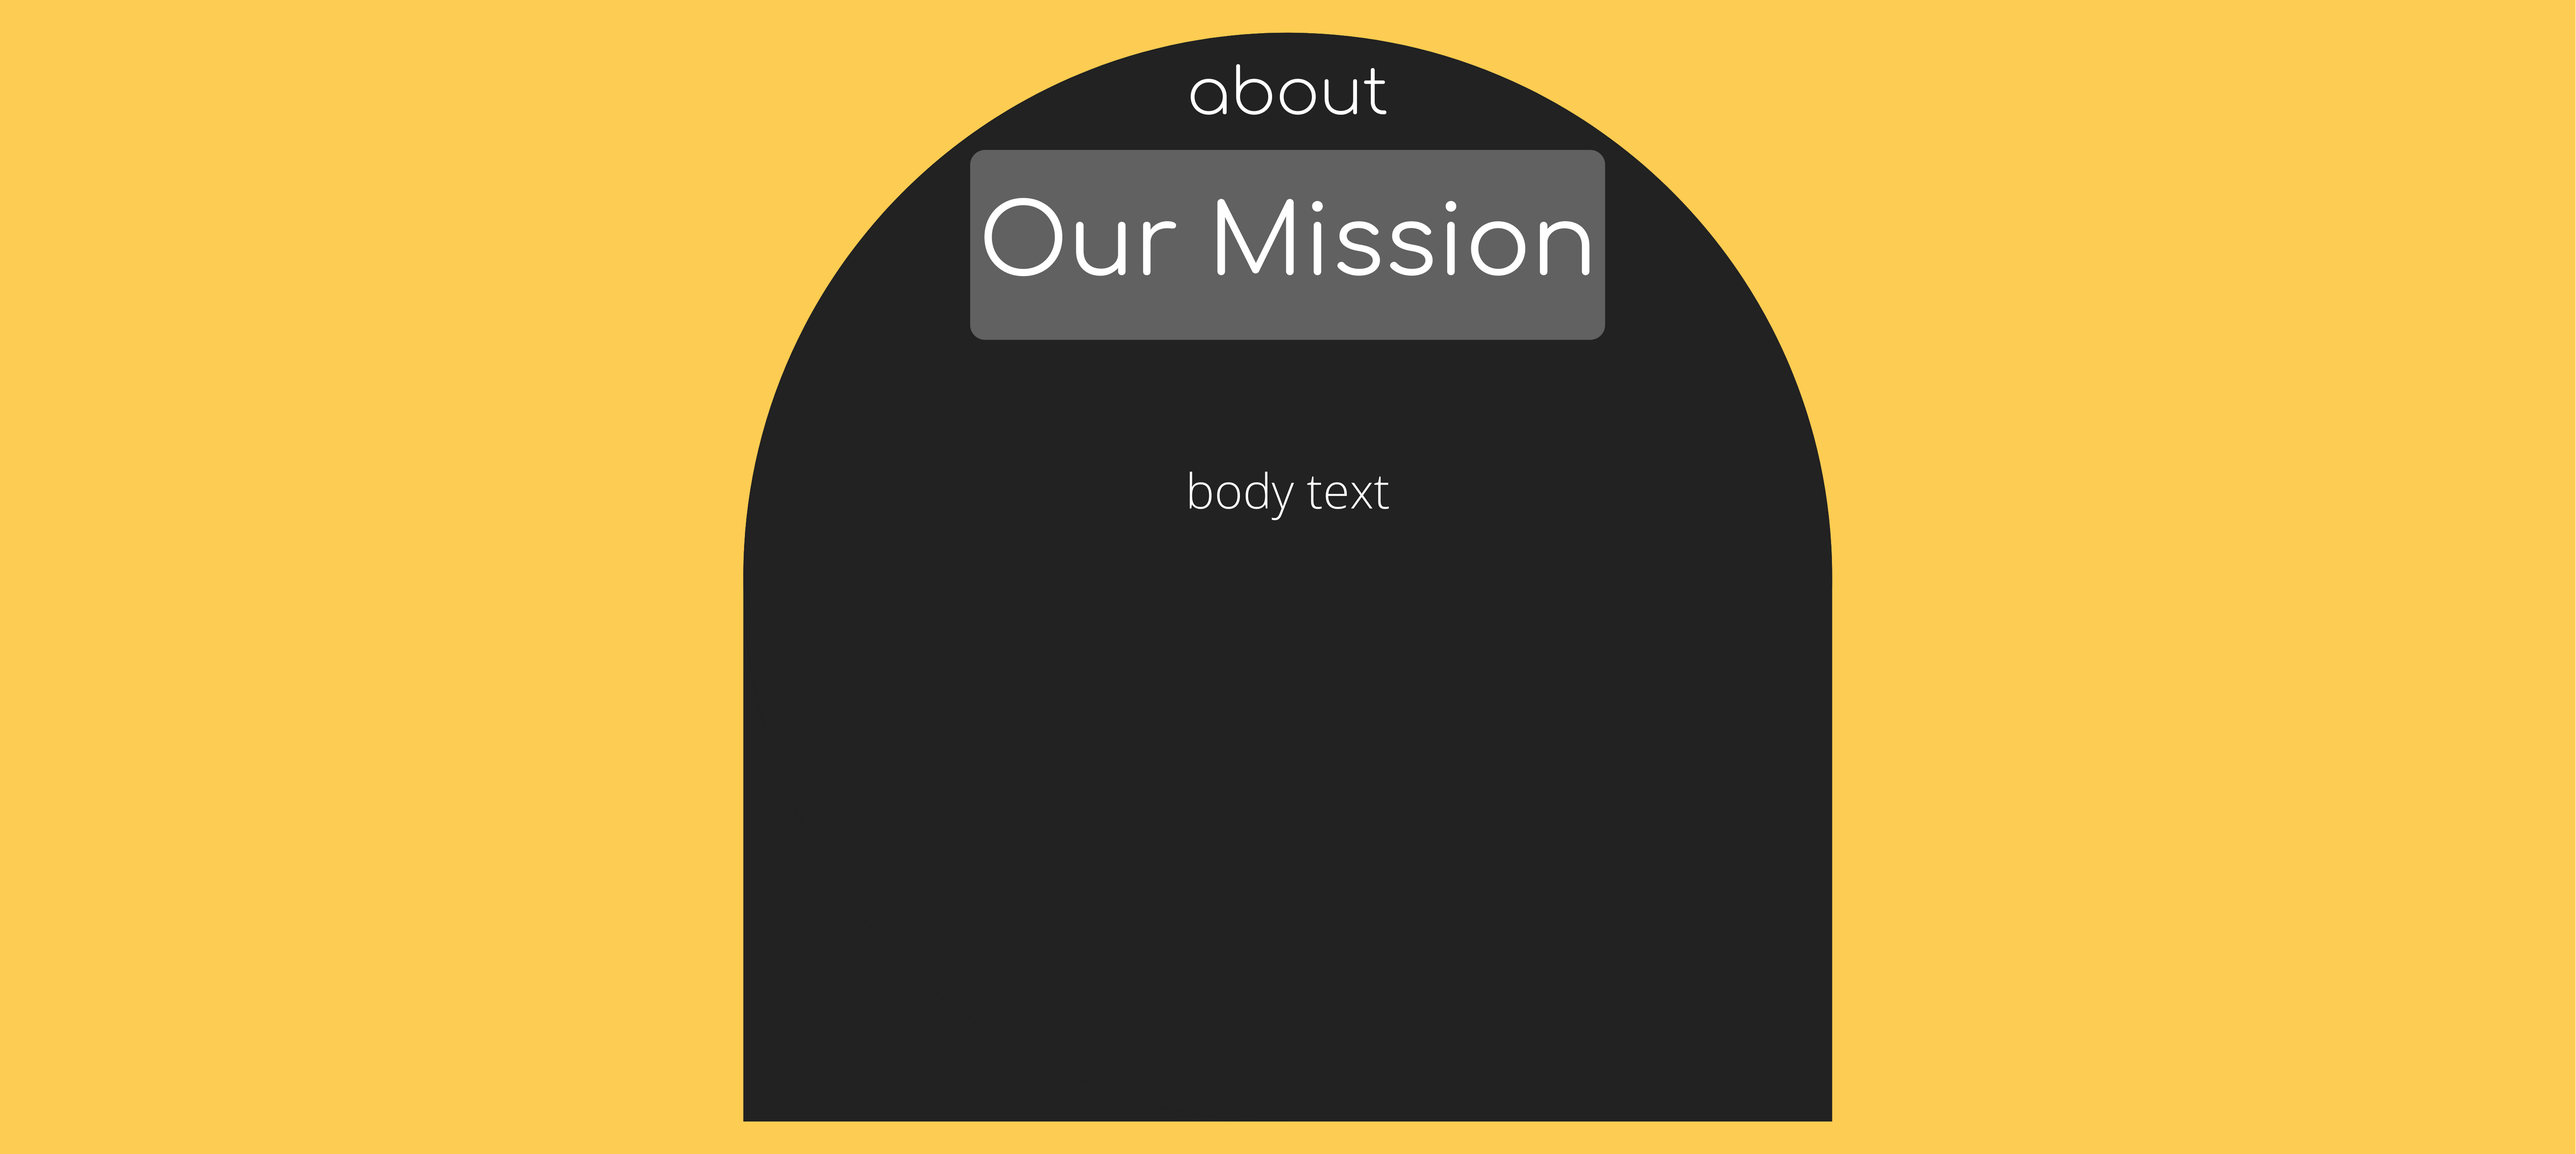
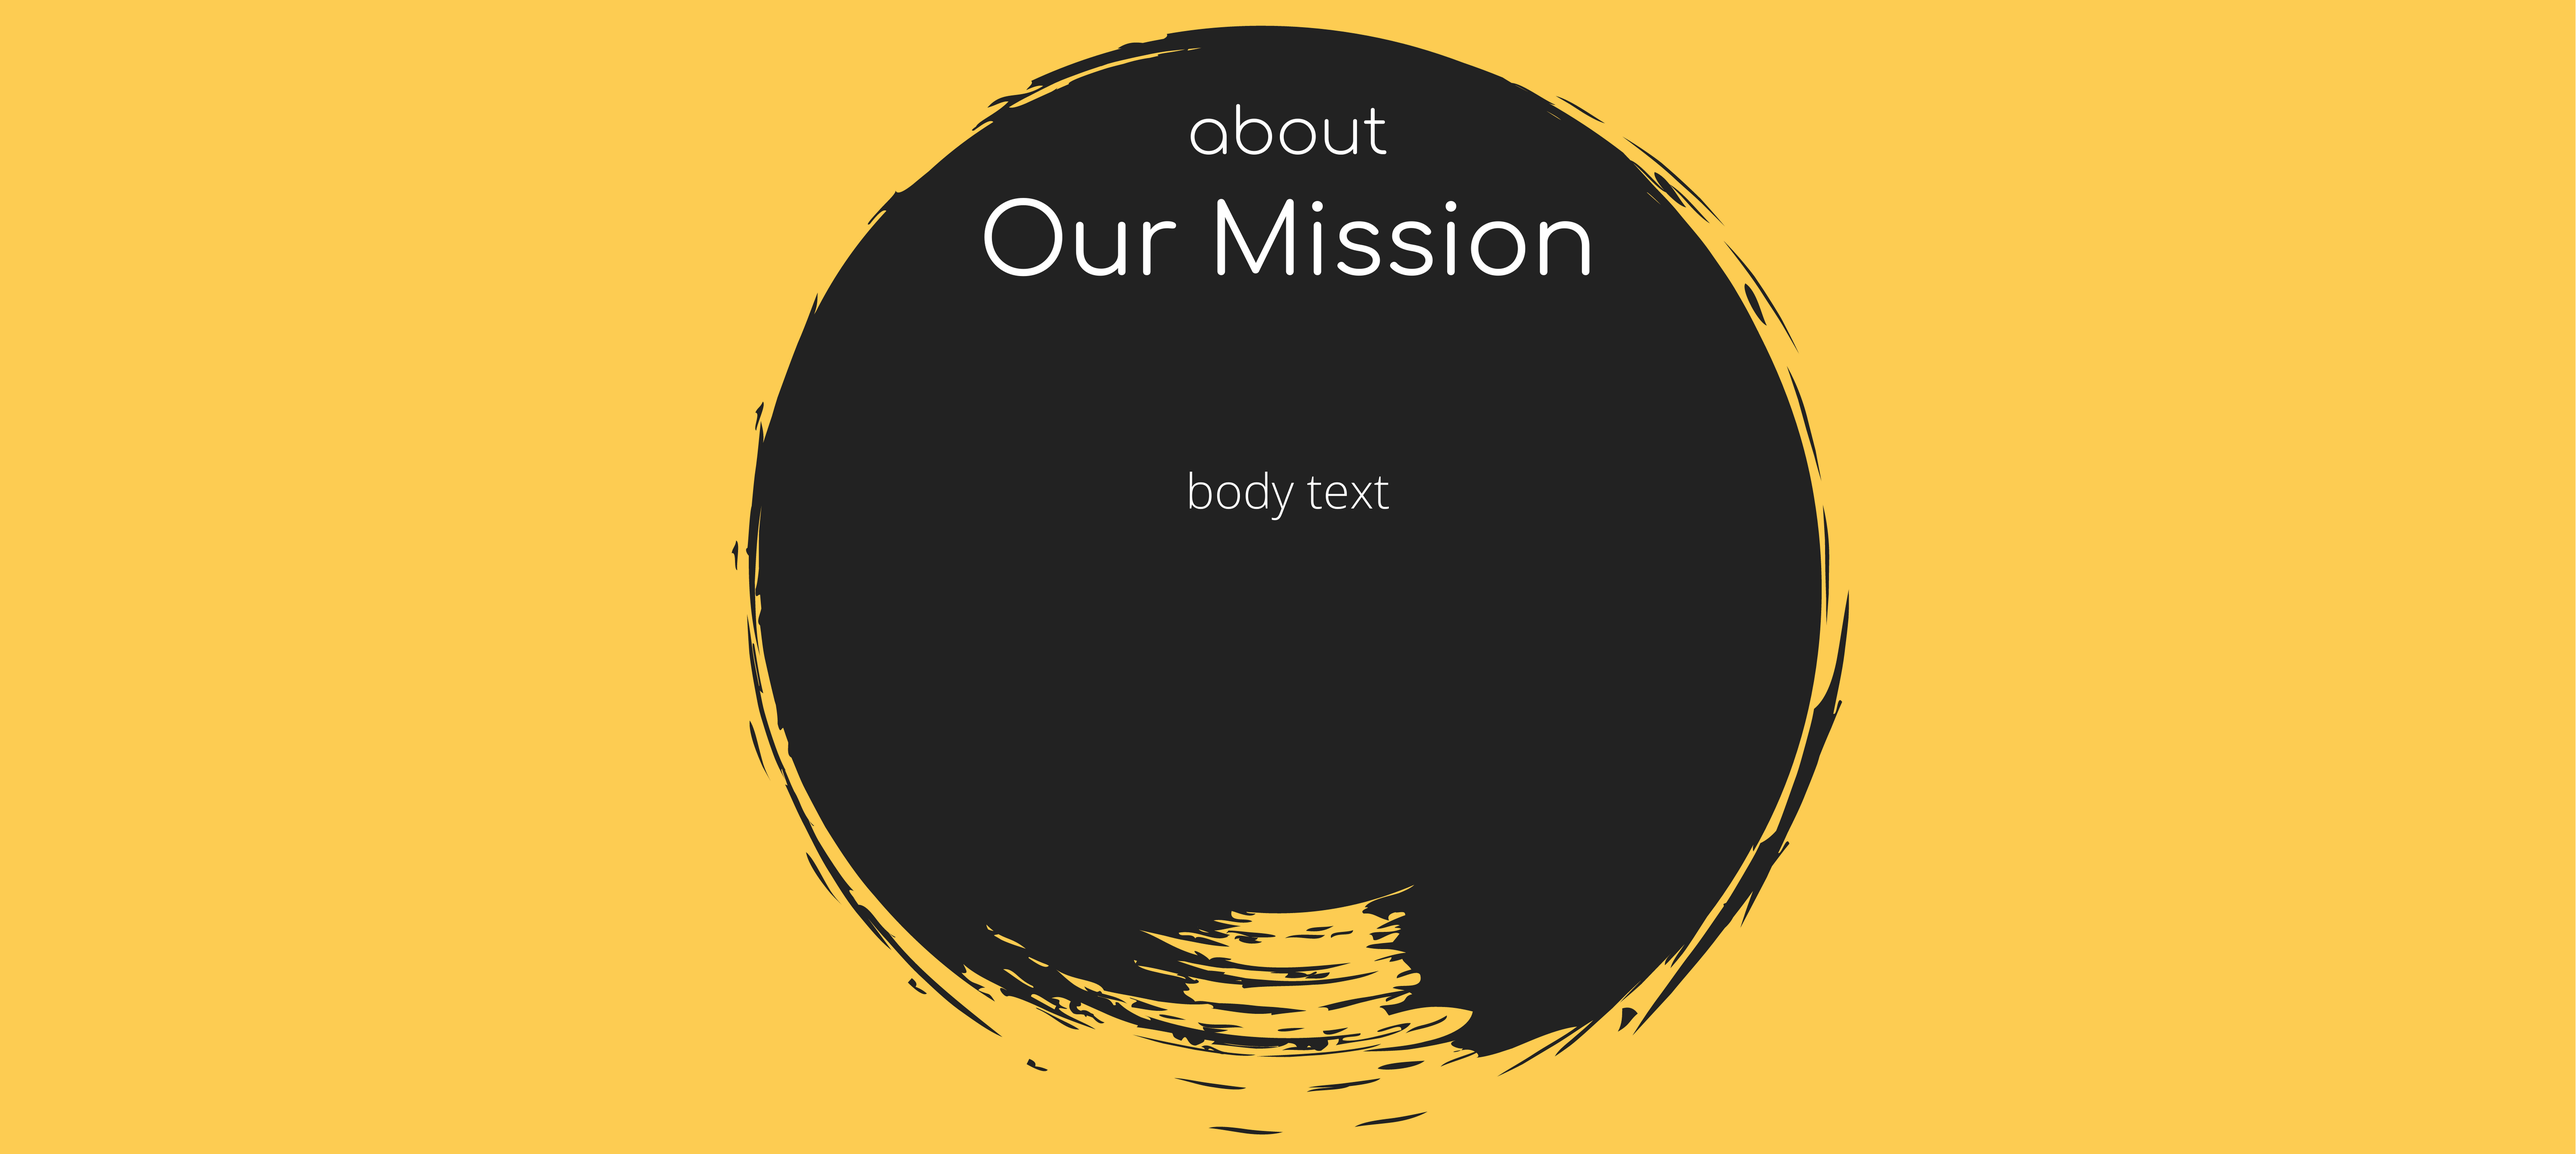
Update

diff --git a/css/new-age.min.css b/css/new-age.min.css
@@ -2,4 +2,4 @@
  * Start Bootstrap - New Age v5.0.9 (https://startbootstrap.com/theme/new-age)
  * Copyright 2013-2020 Start Bootstrap
  * Licensed under MIT (https://github.com/StartBootstrap/startbootstrap-new-age/blob/master/LICENSE)
- */body,html{width:100%;height:100%}body{font-family:Muli,Helvetica,Arial,sans-serif}a{color:#fdcc52;transition:all .35s}a:focus,a:hover{color:#fcbd20}hr{max-width:100px;margin:25px auto 0;border-width:1px;border-color:rgba(34,34,34,.1)}hr.light{border-color:#fff}h1,h2,h3,h4,h5,h6{font-family:Comfortaa,Helvetica,Arial,serif;font-weight:200;letter-spacing:1px}p{font-size:18px;line-height:1.5;margin-bottom:20px}section{padding:100px 0}section h2{font-size:50px}#mainNav{border-color:rgba(34,34,34,.05);background-color:#fff;transition:all .35s;font-family:Catamaran,Helvetica,Arial,sans-serif;font-weight:200;letter-spacing:1px}#mainNav .navbar-brand{color:#fdcc52;font-family:Catamaran,Helvetica,Arial,sans-serif;font-weight:200;letter-spacing:1px}#mainNav .navbar-brand:focus,#mainNav .navbar-brand:hover{color:#fcbd20}#mainNav .navbar-toggler{font-size:12px;padding:8px 10px;color:#fff}#mainNav .navbar-nav>li>a{font-size:11px;font-family:Lato,Helvetica,Arial,sans-serif;letter-spacing:2px;text-transform:uppercase}#mainNav .navbar-nav>li>a.active{color:#fdcc52!important;background-color:transparent}#mainNav .navbar-nav>li>a.active:hover{background-color:transparent}#mainNav .navbar-nav>li>a,#mainNav .navbar-nav>li>a:focus{color:#fff}#mainNav .navbar-nav>li>a:focus:hover,#mainNav .navbar-nav>li>a:hover{color:#fdcc52}@media (min-width:992px){#mainNav{border-color:transparent;background-color:transparent}#mainNav .navbar-brand{color:fade(white,70%)}#mainNav .navbar-brand:focus,#mainNav .navbar-brand:hover{color:#fff}#mainNav .navbar-nav>li>a,#mainNav .navbar-nav>li>a:focus{color:rgba(255,255,255,.7)}#mainNav .navbar-nav>li>a:focus:hover,#mainNav .navbar-nav>li>a:hover{color:#fff}#mainNav.navbar-shrink{border-color:rgba(34,34,34,.1);background-color:#1C1C1C}#mainNav.navbar-shrink .navbar-brand{color:#fff}#mainNav.navbar-shrink .navbar-brand:focus,#mainNav.navbar-shrink .navbar-brand:hover{color:#fdcc52}#mainNav.navbar-shrink .navbar-nav>li>a,#mainNav.navbar-shrink .navbar-nav>li>a:focus{color:#fff}#mainNav.navbar-shrink .navbar-nav>li>a:focus:hover,#mainNav.navbar-shrink .navbar-nav>li>a:hover{color:#fdcc52}}section.masthead{position:relative;width:100%;padding-top:150px;padding-bottom:50px;color:#ffffff;background:#1C1C1C;background:url(../img/background.png)}header.masthead .header-content{max-width:900px;margin-bottom:50px;text-align:center}section.masthead .header-content h1{font-size:30px}section.masthead .device-container{max-width:300px;margin-right:auto;margin-left:auto}header.masthead .device-container .screen img{border-radius:3px}@media (min-width:992px){header.masthead{height:100vh;min-height:775px;padding-top:200;padding-bottom:900}header.masthead .header-content{margin-bottom:100;text-align:left}header.masthead .header-content h1{font-size:50px}header.masthead .device-container{max-width:250px}header.masthead .device-container{max-width:285px}}section.download{position:relative;padding:50px 0}section.download h2{font-size:50px;margin-top:0;}section.download .badges .badge-link{display:block;margin-bottom:25px}section.download .badges .badge-link:last-child{margin-bottom:0}section.download .badges .badge-link img{height:60px}@media (min-width:768px){section.download .badges .badge-link{display:inline-block;margin-bottom:0}}@media (min-width:768px){section.download h2{font-size:70px}}section.features {background-color:#1c1c1c}.section-heading{margin-bottom:0px}section.features .section-heading h2{margin-top:0;color:#FFFFFF}section.features .section-heading p{margin-bottom:0}section.features .device-container,section.features .feature-item{max-width:325px;margin:0 auto}section.features .device-container{margin-bottom:0px}@media (min-width:992px){section.features .device-container{margin-bottom:0}}section.features .feature-item{padding-top:10px;padding-bottom:10px;text-align:center}section.features .feature-item h3{font-size:30px;color:#FFFFFF}section.features .feature-item i{font-size:80px;color:#FFFFFF;display:block;margin-bottom:0px;background:#1C1C1C;-webkit-background-clip:text;background-clip:text;-webkit-text-fill-color:transparent}section.cta{position:relative;padding:10px 0;background-image:url(../img/background2.png);background-position:center;background-size:cover}section.cta .cta-content{position:relative;z-index:1}section.cta .cta-content h2{font-size:50px;max-width:450px;margin-top:50px;margin-bottom:25px;color:#ffffff}@media (min-width:768px){section.cta .cta-content h2{font-size:80px}}section.cta .overlay{position:absolute;top:0;left:0;width:100%;height:100%;background-color:#FDCC52}section.contact{text-align:center}section.contact h2{margin-top:0;margin-bottom:25px}section.contact h2 i{color:#dd4b39}section.contact ul.list-social{margin-bottom:0}section.contact ul.list-social li a{font-size:40px;line-height:80px;display:block;width:80px;height:80px;color:#1C1C1C;border-radius:100%}section.contact ul.list-social li.social-twitter a{background-color:#1da1f2}section.contact ul.list-social li.social-twitter a:hover{background-color:#0d95e8}section.contact ul.list-social li.social-facebook a{background-color:#3b5998}section.contact ul.list-social li.social-facebook a:hover{background-color:#344e86}section.contact ul.list-social li.social-google-plus a{background-color:#dd4b39}section.contact ul.list-social li.social-google-plus a:hover{background-color:#d73925}footer{padding:25px 0;text-align:center;color:rgba(255,255,255,.3);background-color:#1C1C1C}footer p{font-size:12px;margin:0}footer ul{margin-bottom:0}footer ul li a{font-size:12px;color:rgba(255,255,255,.3)}footer ul li a.active,footer ul li a:active,footer ul li a:focus,footer ul li a:hover{text-decoration:none}.bg-primary{background:#FFDE59;background:linear-gradient(#FDCC52,#FDCC52)}.text-primary{color:#fdcc52}.no-gutter>[class*=col-]{padding-right:0;padding-left:0}.btn-outline{color:#ffffff;border:1px solid;border-color:#ffffff}.btn-outline.active,.btn-outline:active,.btn-outline:focus,.btn-outline:hover{color:#ffffff;border-color:#fdcc52;background-color:#fdcc52}.btn{border-radius:300px;font-family:Lato,Helvetica,Arial,sans-serif;letter-spacing:2px;text-transform:uppercase}.btn-xl{font-size:11px;padding:15px 45px}
+ */body,html{width:100%;height:100%}body{font-family:Muli,Helvetica,Arial,sans-serif}a{color:#fdcc52;transition:all .35s}a:focus,a:hover{color:#fcbd20}hr{max-width:100px;margin:25px auto 0;border-width:1px;border-color:rgba(34,34,34,.1)}hr.light{border-color:#fff}h1,h2,h3,h4,h5,h6{font-family:Comfortaa,Helvetica,Arial,serif;font-weight:200;letter-spacing:1px}p{font-size:18px;line-height:1.5;margin-bottom:20px}section{padding:100px 0}section h2{font-size:50px}#mainNav{border-color:rgba(34,34,34,.05);background-color:#fff;transition:all .35s;font-family:Catamaran,Helvetica,Arial,sans-serif;font-weight:200;letter-spacing:1px}#mainNav .navbar-brand{color:#fdcc52;font-family:Catamaran,Helvetica,Arial,sans-serif;font-weight:200;letter-spacing:1px}#mainNav .navbar-brand:focus,#mainNav .navbar-brand:hover{color:#fcbd20}#mainNav .navbar-toggler{font-size:12px;padding:8px 10px;color:#fff}#mainNav .navbar-nav>li>a{font-size:11px;font-family:Lato,Helvetica,Arial,sans-serif;letter-spacing:2px;text-transform:uppercase}#mainNav .navbar-nav>li>a.active{color:#fdcc52!important;background-color:transparent}#mainNav .navbar-nav>li>a.active:hover{background-color:transparent}#mainNav .navbar-nav>li>a,#mainNav .navbar-nav>li>a:focus{color:#fff}#mainNav .navbar-nav>li>a:focus:hover,#mainNav .navbar-nav>li>a:hover{color:#fdcc52}@media (min-width:992px){#mainNav{border-color:transparent;background-color:transparent}#mainNav .navbar-brand{color:fade(white,70%)}#mainNav .navbar-brand:focus,#mainNav .navbar-brand:hover{color:#fff}#mainNav .navbar-nav>li>a,#mainNav .navbar-nav>li>a:focus{color:rgba(255,255,255,.7)}#mainNav .navbar-nav>li>a:focus:hover,#mainNav .navbar-nav>li>a:hover{color:#fff}#mainNav.navbar-shrink{border-color:rgba(34,34,34,.1);background-color:#1C1C1C}#mainNav.navbar-shrink .navbar-brand{color:#fff}#mainNav.navbar-shrink .navbar-brand:focus,#mainNav.navbar-shrink .navbar-brand:hover{color:#fdcc52}#mainNav.navbar-shrink .navbar-nav>li>a,#mainNav.navbar-shrink .navbar-nav>li>a:focus{color:#fff}#mainNav.navbar-shrink .navbar-nav>li>a:focus:hover,#mainNav.navbar-shrink .navbar-nav>li>a:hover{color:#fdcc52}}section.masthead{position:relative;width:100%;padding-top:150px;padding-bottom:0px;color:#ffffff;background:#1C1C1C;background:url(../img/background.png)}header.masthead .header-content{max-width:900px;margin-bottom:0px;text-align:center}section.masthead .header-content h1{font-size:30px}section.masthead .device-container{max-width:685px;margin-right:auto;margin-left:auto}header.masthead .device-container .screen img{border-radius:3px}@media (min-width:992px){header.masthead{height:100vh;min-height:775px;padding-top:0;padding-bottom:0}header.masthead .header-content{margin-bottom:0;text-align:left}header.masthead .header-content h1{font-size:50px}header.masthead .device-container{max-width:250px}header.masthead .device-container{max-width:285px}}section.download{position:relative;padding:50px 0}section.download h2{font-size:50px;margin-top:0;}section.download .badges .badge-link{display:block;margin-bottom:25px}section.download .badges .badge-link:last-child{margin-bottom:0}section.download .badges .badge-link img{height:60px}@media (min-width:768px){section.download .badges .badge-link{display:inline-block;margin-bottom:0}}@media (min-width:768px){section.download h2{font-size:70px}}section.features {background-color:#1c1c1c}.section-heading{margin-bottom:0px}section.features .section-heading h2{margin-top:0;color:#FFFFFF}section.features .section-heading p{margin-bottom:0}section.features .device-container,section.features .feature-item{max-width:325px;margin:0 auto}section.features .device-container{margin-bottom:0px}@media (min-width:992px){section.features .device-container{margin-bottom:0}}section.features .feature-item{padding-top:10px;padding-bottom:10px;text-align:center}section.features .feature-item h3{font-size:30px;color:#FFFFFF}section.features .feature-item i{font-size:80px;color:#FFFFFF;display:block;margin-bottom:0px;background:#1C1C1C;-webkit-background-clip:text;background-clip:text;-webkit-text-fill-color:transparent}section.cta{position:relative;padding:10px 0;background-image:url(../img/background2.png);background-position:center;background-size:cover}section.cta .cta-content{position:relative;z-index:1}section.cta .cta-content h2{font-size:50px;max-width:450px;margin-top:50px;margin-bottom:25px;color:#ffffff}@media (min-width:768px){section.cta .cta-content h2{font-size:80px}}section.cta .overlay{position:absolute;top:0;left:0;width:100%;height:100%;background-color:#FDCC52}section.contact{text-align:center}section.contact h2{margin-top:0;margin-bottom:25px}section.contact h2 i{color:#dd4b39}section.contact ul.list-social{margin-bottom:0}section.contact ul.list-social li a{font-size:40px;line-height:80px;display:block;width:80px;height:80px;color:#1C1C1C;border-radius:100%}section.contact ul.list-social li.social-twitter a{background-color:#1da1f2}section.contact ul.list-social li.social-twitter a:hover{background-color:#0d95e8}section.contact ul.list-social li.social-facebook a{background-color:#3b5998}section.contact ul.list-social li.social-facebook a:hover{background-color:#344e86}section.contact ul.list-social li.social-google-plus a{background-color:#dd4b39}section.contact ul.list-social li.social-google-plus a:hover{background-color:#d73925}footer{padding:25px 0;text-align:center;color:rgba(255,255,255,.3);background-color:#1C1C1C}footer p{font-size:12px;margin:0}footer ul{margin-bottom:0}footer ul li a{font-size:12px;color:rgba(255,255,255,.3)}footer ul li a.active,footer ul li a:active,footer ul li a:focus,footer ul li a:hover{text-decoration:none}.bg-primary{background:#FFDE59;background:linear-gradient(#FDCC52,#FDCC52)}.text-primary{color:#fdcc52}.no-gutter>[class*=col-]{padding-right:0;padding-left:0}.btn-outline{color:#ffffff;border:1px solid;border-color:#ffffff}.btn-outline.active,.btn-outline:active,.btn-outline:focus,.btn-outline:hover{color:#ffffff;border-color:#fdcc52;background-color:#fdcc52}.btn{border-radius:300px;font-family:Lato,Helvetica,Arial,sans-serif;letter-spacing:2px;text-transform:uppercase}.btn-xl{font-size:11px;padding:15px 45px}

diff --git a/index.html b/index.html
@@ -66,17 +66,8 @@
       <div class="container">
         <div class="col my-auto">
           <div class="device-container">
-            <div class="device-mockup iphone_x portrait black">
-              <div class="device">
-                <div class="screen">
                   <!-- Demo image for screen mockup, you can put an image here, some HTML, an animation, video, or anything else! -->
-                  <img src="img/iphonescreen.png" class="img-fluid" alt="">
-                </div>
-                <div class="button">
-                  <!-- You can hook the "home button" to some JavaScript events or just remove it -->
-                </div>
-              </div>
-            </div>
+                  <img src="img/mockups.png" class="img-fluid" alt="">
           </div>
         </div>
       </div>
